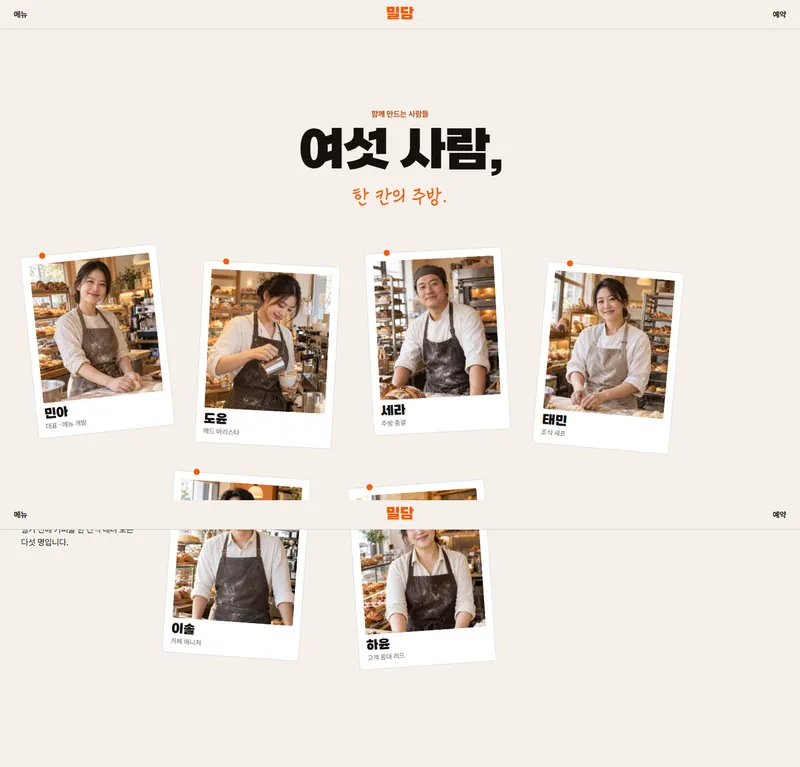
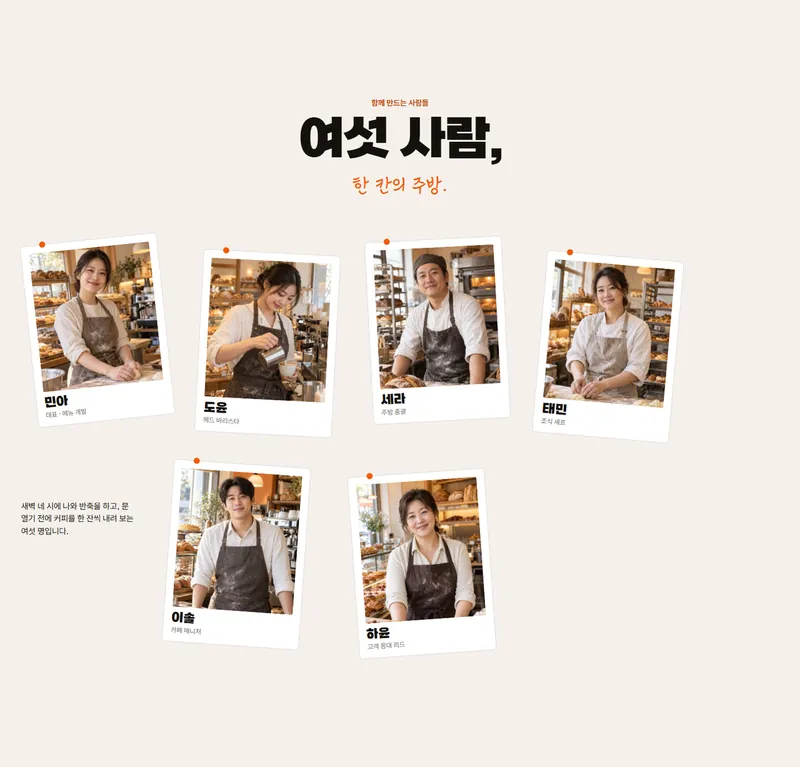
밀담(restaurant-i) 팀 소개 인원 '다섯 명' → '여섯 명' — 카드 6장·제목 '여섯 사람'과 맞춤
- 랜딩·기본형 둘 다
- 사례 이미지 point-team 다시 찍기: 이어 붙인 캡처 중간에 끼던 머리글(.top)을 숨겨 고친 문장이 가리지 않게

diff --git a/public/templates/restaurant-i-basic/index.html b/public/templates/restaurant-i-basic/index.html
@@ -417,7 +417,7 @@ html.js .rv.on,html:not(.js) .rv{opacity:1;transform:none}
       <div class="note n4"><figure><img src="../restaurant-i/assets/tm-4.jpg" alt="" width="218" height="250" loading="lazy" srcset="../restaurant-i/assets/tm-4-sm.jpg 240w, ../restaurant-i/assets/tm-4.jpg 433w" sizes="(max-width:809px) 120px, 433px"></figure><b class="ko">태민</b><span class="ko">조식 셰프</span></div>
       <div class="note n5"><figure><img src="../restaurant-i/assets/tm-5.jpg" alt="" width="218" height="250" loading="lazy" srcset="../restaurant-i/assets/tm-5-sm.jpg 240w, ../restaurant-i/assets/tm-5.jpg 433w" sizes="(max-width:809px) 120px, 433px"></figure><b class="ko">이솔</b><span class="ko">카페 매니저</span></div>
       <div class="note n6"><figure><img src="../restaurant-i/assets/tm-6.jpg" alt="" width="218" height="250" loading="lazy" srcset="../restaurant-i/assets/tm-6-sm.jpg 240w, ../restaurant-i/assets/tm-6.jpg 433w" sizes="(max-width:809px) 120px, 433px"></figure><b class="ko">하윤</b><span class="ko">고객 응대 리드</span></div>
-      <p class="cap p15 ko">새벽 네 시에 나와 반죽을 하고, 문 열기 전에 커피를 한 잔씩 내려 보는 다섯 명입니다.</p>
+      <p class="cap p15 ko">새벽 네 시에 나와 반죽을 하고, 문 열기 전에 커피를 한 잔씩 내려 보는 여섯 명입니다.</p>
     </div>
   </section>
 

diff --git a/public/templates/restaurant-i/index.html b/public/templates/restaurant-i/index.html
@@ -413,7 +413,7 @@ html.js .rv.on,html:not(.js) .rv{opacity:1;transform:none}
       <div class="note n4"><figure><img src="./assets/tm-4.jpg" alt="" width="218" height="250" loading="lazy" srcset="./assets/tm-4-sm.jpg 240w, ./assets/tm-4.jpg 433w" sizes="(max-width:809px) 120px, 433px"></figure><b class="ko">태민</b><span class="ko">조식 셰프</span></div>
       <div class="note n5"><figure><img src="./assets/tm-5.jpg" alt="" width="218" height="250" loading="lazy" srcset="./assets/tm-5-sm.jpg 240w, ./assets/tm-5.jpg 433w" sizes="(max-width:809px) 120px, 433px"></figure><b class="ko">이솔</b><span class="ko">카페 매니저</span></div>
       <div class="note n6"><figure><img src="./assets/tm-6.jpg" alt="" width="218" height="250" loading="lazy" srcset="./assets/tm-6-sm.jpg 240w, ./assets/tm-6.jpg 433w" sizes="(max-width:809px) 120px, 433px"></figure><b class="ko">하윤</b><span class="ko">고객 응대 리드</span></div>
-      <p class="cap p15 ko">새벽 네 시에 나와 반죽을 하고, 문 열기 전에 커피를 한 잔씩 내려 보는 다섯 명입니다.</p>
+      <p class="cap p15 ko">새벽 네 시에 나와 반죽을 하고, 문 열기 전에 커피를 한 잔씩 내려 보는 여섯 명입니다.</p>
     </div>
   </section>
 
